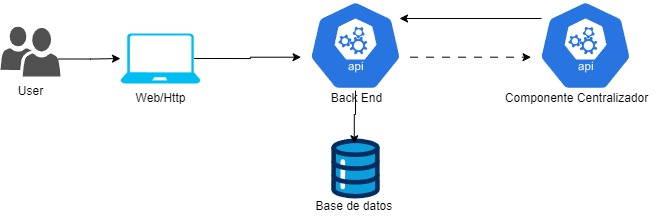
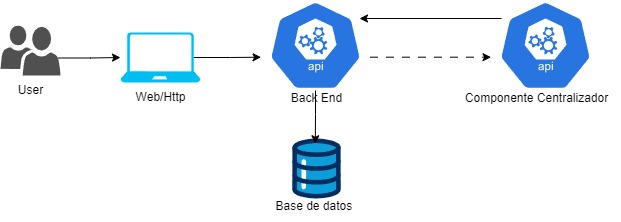
avances arquetipo

diff --git a/README.md b/README.md
@@ -12,9 +12,9 @@
 5. [Criterios de aceptación](https://uconet.sharepoint.com/:x:/r/sites/Cognicare-ControlInhibitorio/Shared%20Documents/Control%20Inhibitorio/Documentaci%C3%B3n/1.%20Artefactos%20t%C3%A9cnicos/1.%20Artefactos%20estrat%C3%A9gicos/4.%20Mapa%20de%20historias%20de%20usuario/MapeoImpactosComandos.xlsx?d=wcf3a0136fb6c4d7abc001a9e2dd5cdae&csf=1&web=1&e=wnWs72)
 ## 3. Diseño tactico alto nivel
 1. [Arquitectura de referencia](https://github.com/alejoDev117/Documentacion_Control_Inhibitorio/blob/main/Dise%C3%B1oTacticoAltoNivel/ArquitecturaReferencia.md)
-2. [Drivers Arquitectonicos](https://github.com/federico1605/Documentacion_Cognicare/blob/main/Dise%C3%B1oTacticoAltoNivel/ArquitecturaReferencia.md)
-3. [Justificiación de alternativa de solución](https://github.com/federico1605/Documentacion_Cognicare/blob/main/Dise%C3%B1oTacticoAltoNivel/ArquitecturaReferencia.md)
-4. [Plataforma tecnologica](https://github.com/federico1605/Documentacion_Cognicare/blob/main/Dise%C3%B1oTacticoAltoNivel/ArquitecturaReferencia.md)
+2. [Drivers Arquitectonicos](https://github.com/alejoDev117/Documentacion_Control_Inhibitorio/blob/main/Dise%C3%B1oTacticoAltoNivel/ArquitecturaReferencia.md)
+3. [Justificiación de alternativa de solución](https://github.com/alejoDev117/Documentacion_Control_Inhibitorio/blob/main/Dise%C3%B1oTacticoAltoNivel/ArquitecturaReferencia.md)
+4. [Plataforma tecnologica](https://github.com/alejoDev117/Documentacion_Control_Inhibitorio/blob/main/Dise%C3%B1oTacticoAltoNivel/ArquitecturaReferencia.md)
 ## 4. Diseño tactico detallado
 1. [Diagrama de datos](https://github.com/federico1605/Documentacion_Cognicare/blob/main/Dise%C3%B1oTacticoDetallado/4.1.%20Modelo%20de%20Datos.md)
 2. [Diagrama de clases](https://github.com/federico1605/Documentacion_Cognicare/blob/main/Dise%C3%B1oTacticoDetallado/4.2.%20Diagrama%20de%20Clases.md)

diff --git a/DiseñoTacticoAltoNivel/ArquitecturaReferencia.md b/DiseñoTacticoAltoNivel/ArquitecturaReferencia.md
@@ -71,7 +71,7 @@ Este servicio devuelve los datos de una sesión al backend, que lso utiliza para
 
 # Arquetipo de Referencia
 
-![Arquetipo de Referencia](/Imagenes/Arquetipo_Referencia.png)
+![Arquetipo de Referencia](/Imagenes/Arquetipo_Referencia.jpg)
 
 La arquitectura propuesta representa la variable Control Inhibitorio de una aplicación de entrenamiento cognitivo enfocada en entrenar a los estudiantes. Este componente actúa como la variable encargada de entrenar el control inhibitorio y de generar las métricas esperadas para el componente centralizador.
 
